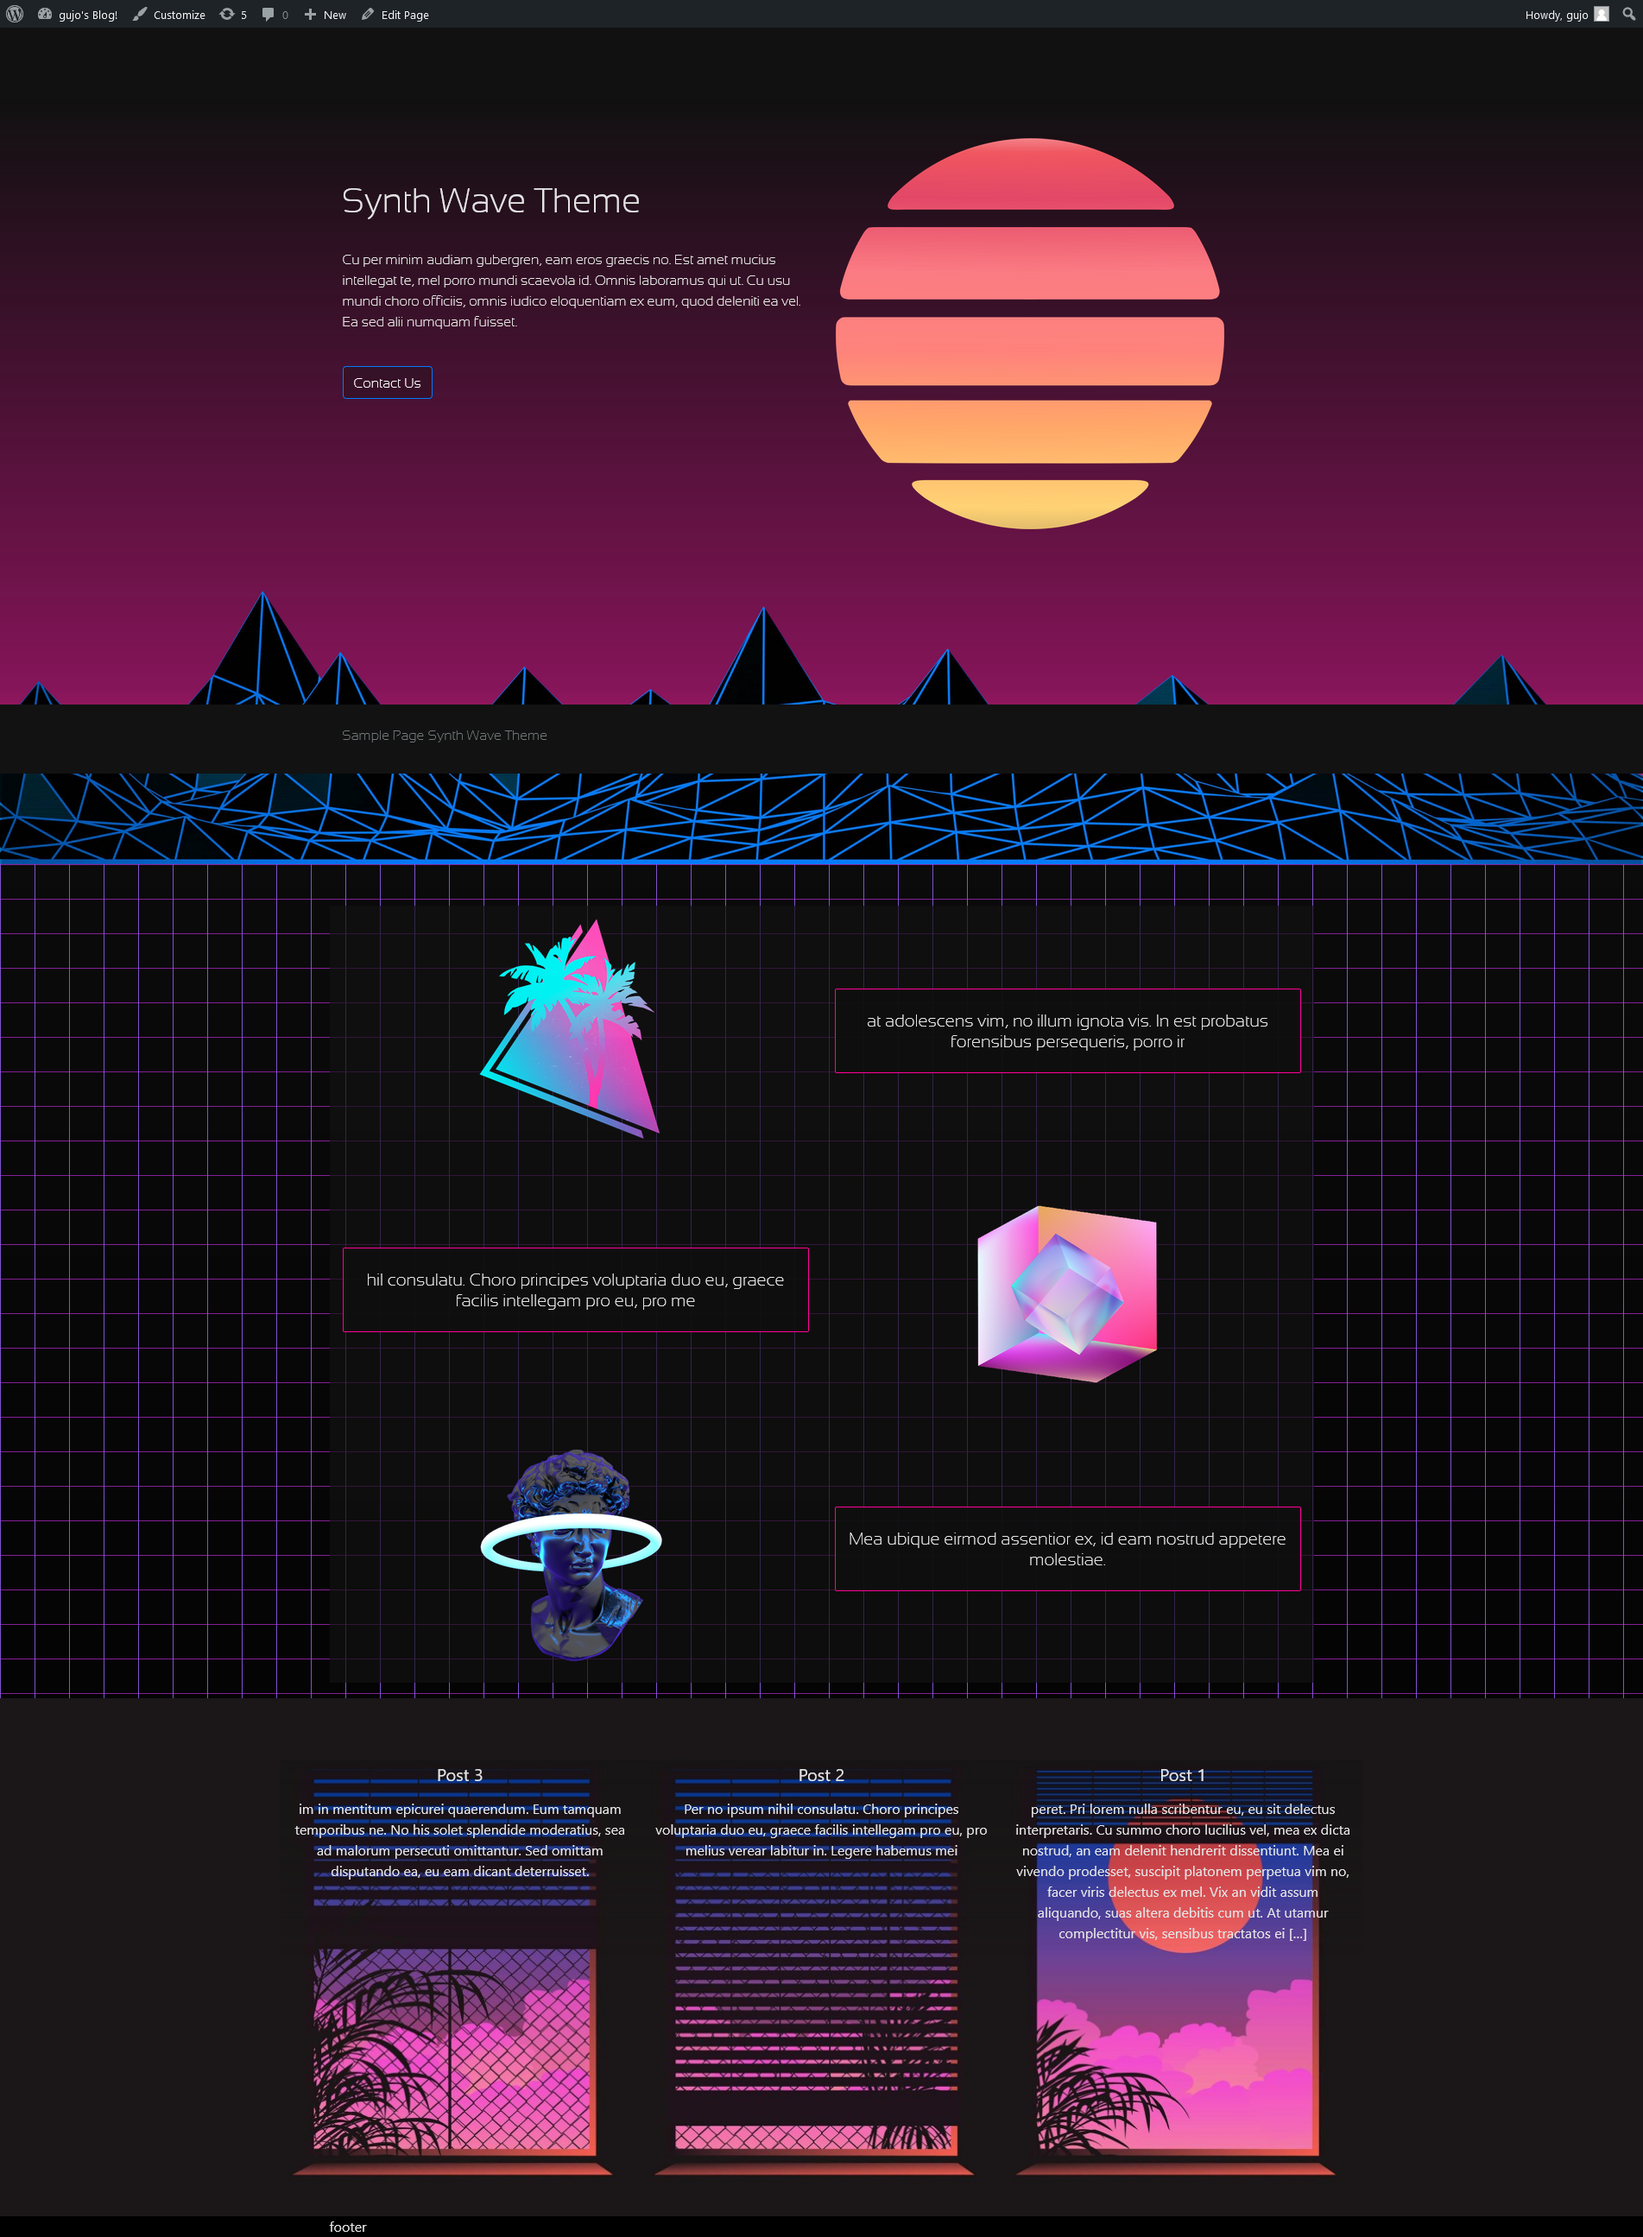
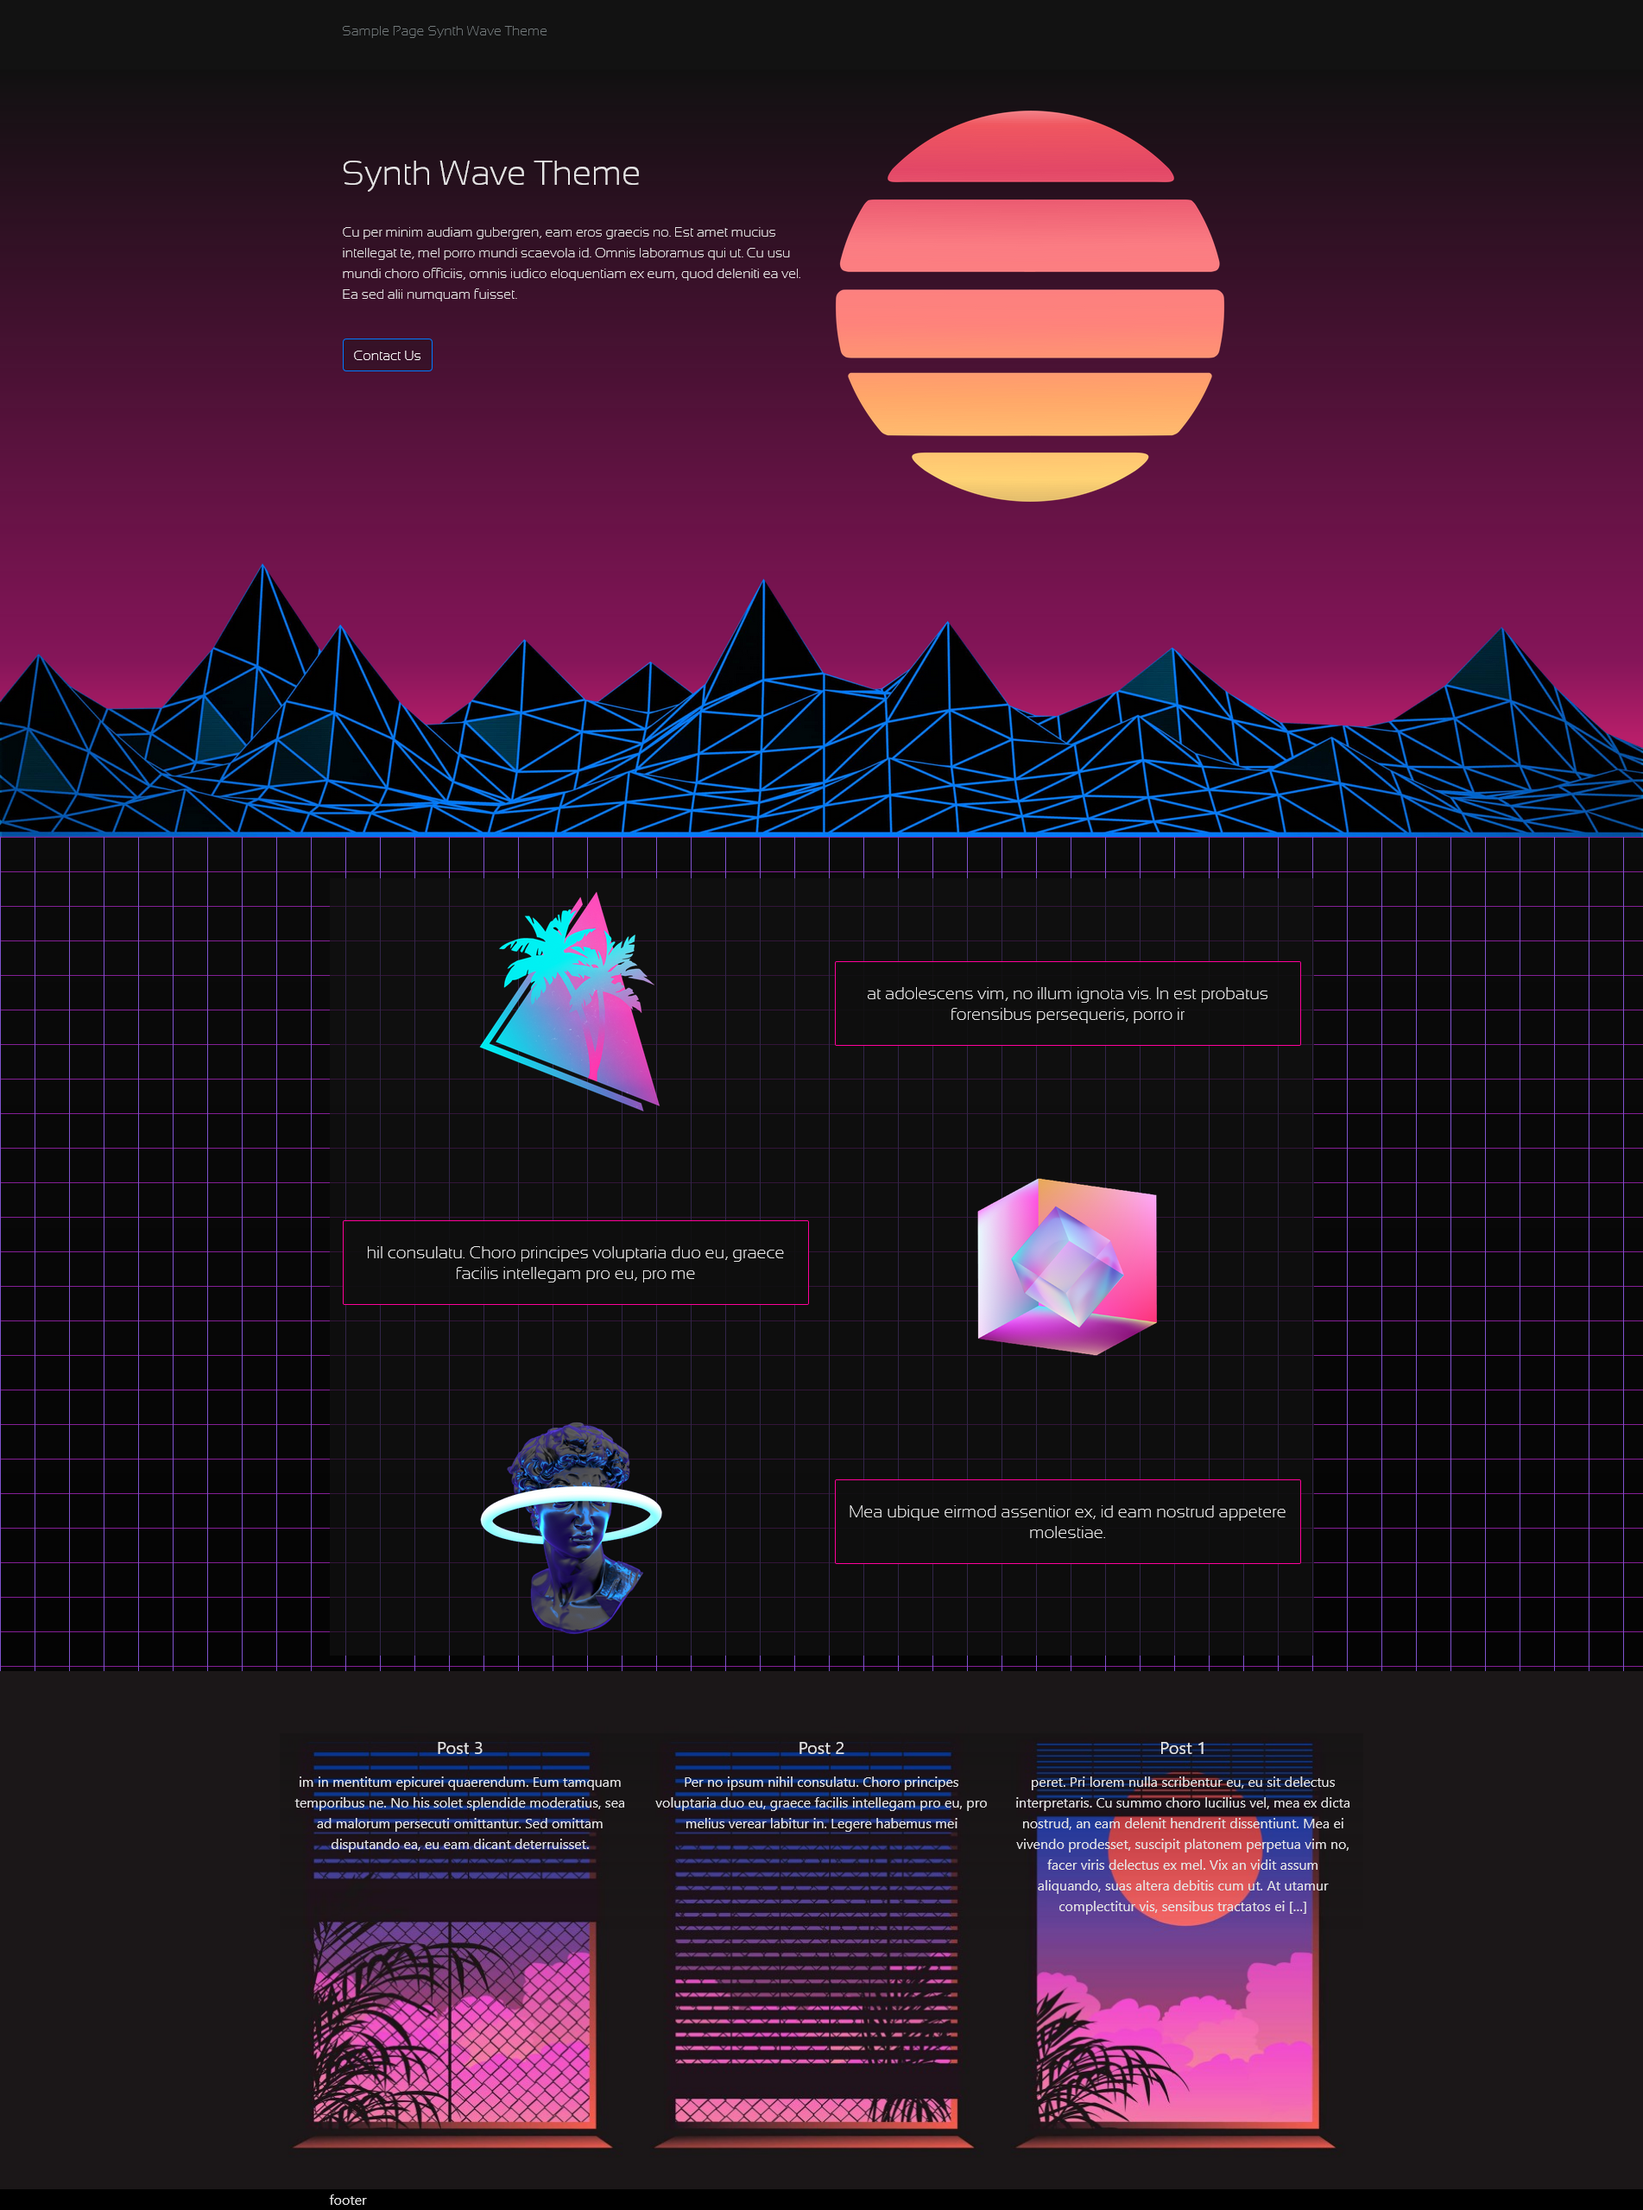
img

diff --git a/style.scss b/style.scss
@@ -13,6 +13,13 @@ Author URI: https://gujoengineer.wp.com
   src: url(assets/fonts/SansationLight.ttf);
 }
 
+.sec1Background{
+  height: 92vh;
+  background: rgb(232,39,122);
+  background: linear-gradient(0deg, rgba(232,39,122,1) 3%, rgba(133,21,89,1) 23%, rgba(18,0,50,0) 100%);
+z-index: 0;
+}
+
 .sec1 {
   height: 92vh;
   background-image: url(assets/images/heading.png);
@@ -21,7 +28,8 @@ Author URI: https://gujoengineer.wp.com
   background-position: bottom;
   font-family: Sansation;
   background-color: linear-gradient(90deg, rgba(232, 39, 122, 1) 0%, rgba(133, 21, 89, 1) 19%, rgba(18, 0, 50, 1) 47%);
-
+  z-index: 100;
+  
   .btn-primary {
     background-color: rgba($color: #121212, $alpha: 0.3) !important;
   }
@@ -38,6 +46,7 @@ Author URI: https://gujoengineer.wp.com
   background-size: 40px 40px;
   background-image: linear-gradient(to right, #0272eb, #0272eb, rgba(255, 52, 179, 1), rgb(65, 65, 65) 1px, transparent 1px), linear-gradient(to bottom, rgba(32, 17, 72, 1), rgba(9, 9, 121, 1), rgba(255, 52, 179, 1), rgb(65, 65, 65) 1px, transparent 1px);
   font-family: Sansation;
+  box-shadow: #fff;
 
   .userText {
     background-color: rgba($color: #0f0f0f, $alpha: 0.9);

diff --git a/style.css b/style.css
@@ -12,6 +12,14 @@ Author URI: https://gujoengineer.wp.com
   src: url(assets/fonts/SansationLight.ttf);
 }
 
+.sec1Background {
+  height: 92vh;
+  background: #e8277a;
+  background: -webkit-gradient(linear, left bottom, left top, color-stop(3%, #e8277a), color-stop(23%, #851559), to(rgba(18, 0, 50, 0)));
+  background: linear-gradient(0deg, #e8277a 3%, #851559 23%, rgba(18, 0, 50, 0) 100%);
+  z-index: 0;
+}
+
 .sec1 {
   height: 92vh;
   background-image: url(assets/images/heading.png);
@@ -20,6 +28,7 @@ Author URI: https://gujoengineer.wp.com
   background-position: bottom;
   font-family: Sansation;
   background-color: linear-gradient(90deg, #e8277a 0%, #851559 19%, #120032 47%);
+  z-index: 100;
 }
 
 .sec1 .btn-primary {
@@ -35,6 +44,8 @@ Author URI: https://gujoengineer.wp.com
   background-size: 40px 40px;
   background-image: linear-gradient(to right, #0272eb, #0272eb, #ff34b3, #414141 1px, transparent 1px), linear-gradient(to bottom, #201148, #090979, #ff34b3, #414141 1px, transparent 1px);
   font-family: Sansation;
+  -webkit-box-shadow: #fff;
+          box-shadow: #fff;
 }
 
 .sec2 .userText {

diff --git a/front-page.php b/front-page.php
@@ -15,6 +15,7 @@ $the_query = new WP_Query(array(
 
 <div>
 
+  <div class="sec1Background">
   <section class="sec1 pt-5 pb-5">
 
     <div class="container">
@@ -38,6 +39,7 @@ $the_query = new WP_Query(array(
           <div class="sunImg"></div>
         </div>
       </div>
+    </div>
     </div>
 
   </section>
